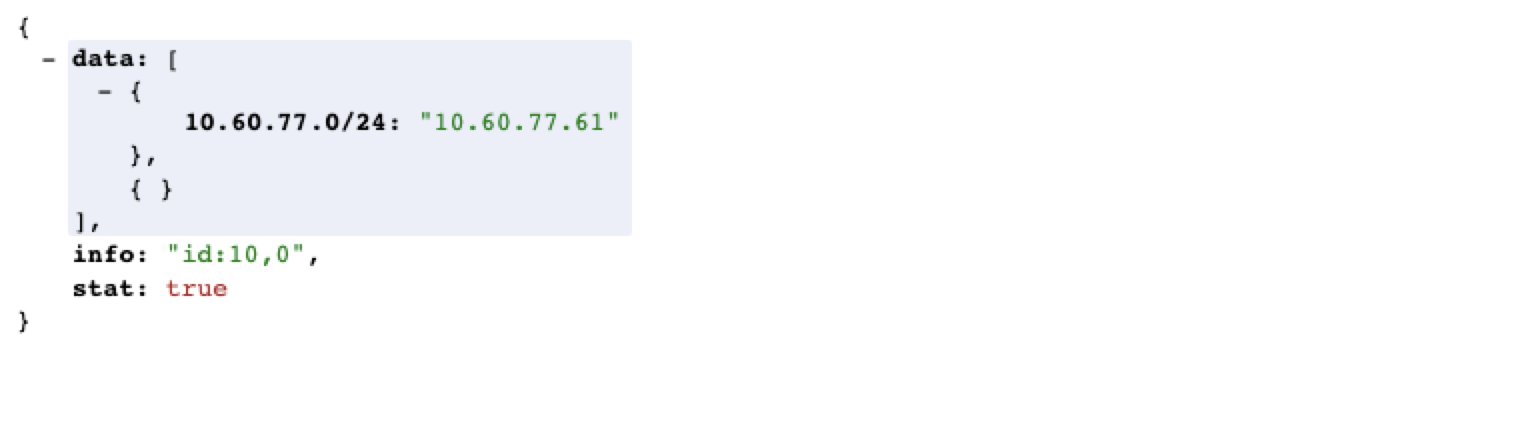
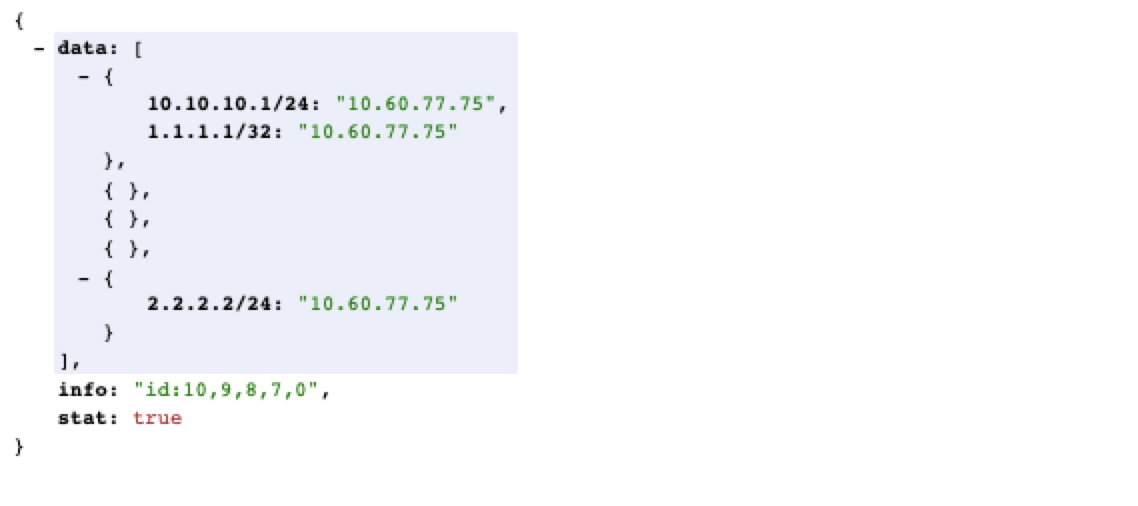
完善AGENT安装和代理部分的文档

diff --git a/AGENT安装和管理/README.md b/AGENT安装和管理/README.md
@@ -1,17 +1,11 @@
-# 往服务树中添加机器
+页面路径:【业务管理】->【代理设置(AGENT安装)】
 
-服务树的两种情况：
-* 对接了外部服务树系统，跳转到服务树系统管理服务树资源
-* 使用OPEN-C3内置的服务树，跳转到连接器部分[编辑服务树资源](/连接器/#编辑服务树资源)
+# AGENT安装
 
-# 安装AGENT
-
-进入页面： 【业务管理】->【代理设置(AGENT安装)】
-
-![安装AGENT](/AGENT安装和管理/images/安装AGENT.png)
+![AGENT安装](/AGENT安装和管理/images/安装AGENT.png)
 
 
-在要安装AGENT的服务器上运行浏览器中显示的安装命令。
+在要安装AGENT的服务器上运行浏览器中显示的安装命令，如下：
 ```
 [root@localhost ~]#curl -L http://10.10.10.10/api/scripts/installAgent.sh |sudo OPEN_C3_ADDR=10.10.10.10 bash
 
@@ -20,9 +14,16 @@
 UPDATE OPEN-C3 AGENT: SUCCESS!!!
 ```
 
-# 代理管理（可跳过）
+注：
+```
+在需要管理的所有机器上都要安装上AGENT。实质上AGENT和代理是同一个程序，代理的并发参数会大一些。
+```
 
-如果所有要管理的服务和部署OPEN-C3的机器都在一个可以相互访问的网络内，这一步跳过。否则需要如下配置
+# 代理管理
+
+根据实际情况配置，如果所有要管理的服务和部署OPEN-C3的机器都在一个网络中，可以跳过这一步。
+
+代理配置在服务树中有继承关系。
 
 ## 添加代理区域
 
@@ -58,9 +59,11 @@ UPDATE OPEN-C3 AGENT: SUCCESS!!!
 
 ![接口代理数据](/AGENT安装和管理/images/接口代理数据.png)
 
+从接口的数据可以看到接口返回了服务树每一层的网段配置。程序调用过程中会每一层进行判断。
+
 # 开启状态自动检测
 
-根据实际情况，可以打开自动检测的开关（开启耗费资源，如不需要可以不去开启它），开启状态下会每3分钟检测一下机器的AGENT状态。
+根据实际情况，可以打开自动检测的开关（开启耗费资源，如不需要可以开启），开启状态下会每3分钟检测一下机器的AGENT状态。
 
 ![状态自动检测更新](/AGENT安装和管理/images/状态自动检测更新.png)
 
